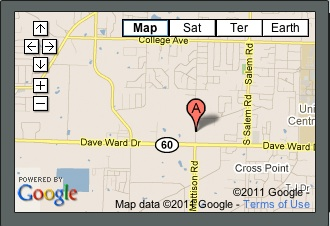
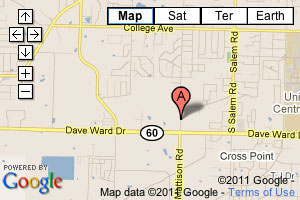
added new map image and some css!

diff --git a/NLC.tv/index.html b/NLC.tv/index.html
@@ -43,17 +43,17 @@
 						<ul id="form_third">
 							<li>Campus Select</li>
 							<li>
-							<select>
-								<option>CABOT</option>
-								<option>CONWAY</option>
-								<option>FORT SMITH</option>
-								<option>GLR</option>
-								<option>HEBER SPRINGS</option>
-								<option>HOT SPRINGS</option>
-							</select>
-						</li>
-						<li>
-							<input id="submit" type="submit" value="SUBMIT">
+								<select>
+									<option>CABOT</option>
+									<option>CONWAY</option>
+									<option>FORT SMITH</option>
+									<option>GLR</option>
+									<option>HEBER SPRINGS</option>
+									<option>HOT SPRINGS</option>
+								</select>
+							</li>
+							<li>
+								<input id="submit" type="submit" value="SUBMIT">
 							</li>
 						</ul>
 					</form>
@@ -103,44 +103,33 @@
 				<p class="watch">WATCH OUR MOST RECENT SERVICE NOW</p>
 			</div>
 			</section>
-	
-
-
 		<section class="part_three">
 			<div class="inner">
-				<div id="map" class="grid_1">
+				<div class="map"> 
 					<img src="img/map.jpg" alt="Map of New Life Churchs">
 				</div>
-
-
-					<div class="location">
+				<div class="location"> 
 						<ul class="dropdown">
-        			<li><a href="#">Campus Select</a>
-        			<ul class="sub_menu">
-        				<li><a href="#">CBT - Cabot- AR</a></li>
-        			 	<li><a href="#">CWY - Conway - AR</a></li>
-        			 	<li><a href="#">GLR - Greater Little Rock - AR</a><li>
-        				<li><a href="#">HBS - Heber Springs - AR</a></li>
-        				<li><a href="#">HTS - Hot Springs - AR</a></li>
-							</ul>
+        			<li>
+        				<a href="#">Campus Select</a>
+	        			<ul class="sub_menu">
+	        				<li><a href="#">CBT - Cabot- AR</a></li>
+	        			 	<li><a href="#">CWY - Conway - AR</a></li>
+	        			 	<li><a href="#">GLR - Greater Little Rock - AR</a><li>
+	        				<li><a href="#">HBS - Heber Springs - AR</a></li>
+	        				<li><a href="#">HTS - Hot Springs - AR</a></li>
+								</ul>
+							</li>
         		</ul>
-				<!--<ul>
-							<li>Cabot</li>
-							<li>Conway</li>
-							<li>Fort Smith</li>
-							<li>Greater Little Rock</li>
-							<li>Heber Springs</li>
-							<li>Hot Springs</li>
-						</ul> -->
-						<p id="cwy_address" class="grid_2">
+						<p id="cwy_address"> 
 							633 South Country Club Road <br> Conway, AR 72034
 						</p>
-						<div class="grid_3 goright">
+						<div class="goright">
 							<p class="goright">SATURDAY 7:00pm</p>
 								<br>
 							<p class="goright">Sunday 10 & 11:45</p>
 								<br>
-							<p class="goright">501 328-5433</p>
+							<p class="campus-telephone goright">501 328-5433</p>
 						</div>
 						<p>DRIVING DIRECTIONS</P>
 					</div>

diff --git a/NLC.tv/css/style.css b/NLC.tv/css/style.css
@@ -243,19 +243,36 @@
 			float: left;
 			clear: both;
 			overflow: hidden;
+			width: 300px;
+			height: 200px;
+			padding: 10px;
+			background: #484E4E;
+			border: solid 2px #424343;
+			-webkit-border-radius: 3px;
+			-moz-border-radius: 3px;
+			border-radius: 3px;
 		}
 
 		.location {
 			background: url(../img/blackbox_03.jpg);
 			color: white;
-			width: 300px;
+			width: 500px;
 			height: 150px;
-			overflow: hidden;
 			margin-top: 40px;
 			float: left;
+			position: relative;
+		}
+
+		.location .dropdown {
+			position: relative;
+			z-index: 9999;
 		}
 
 		.goright {float: right;}
+
+		.campus-telephone { 
+			margin-right: 200px;
+		}
 
 		.part_three {
 			background: url(../img/part-three-bkg_03.jpg);
